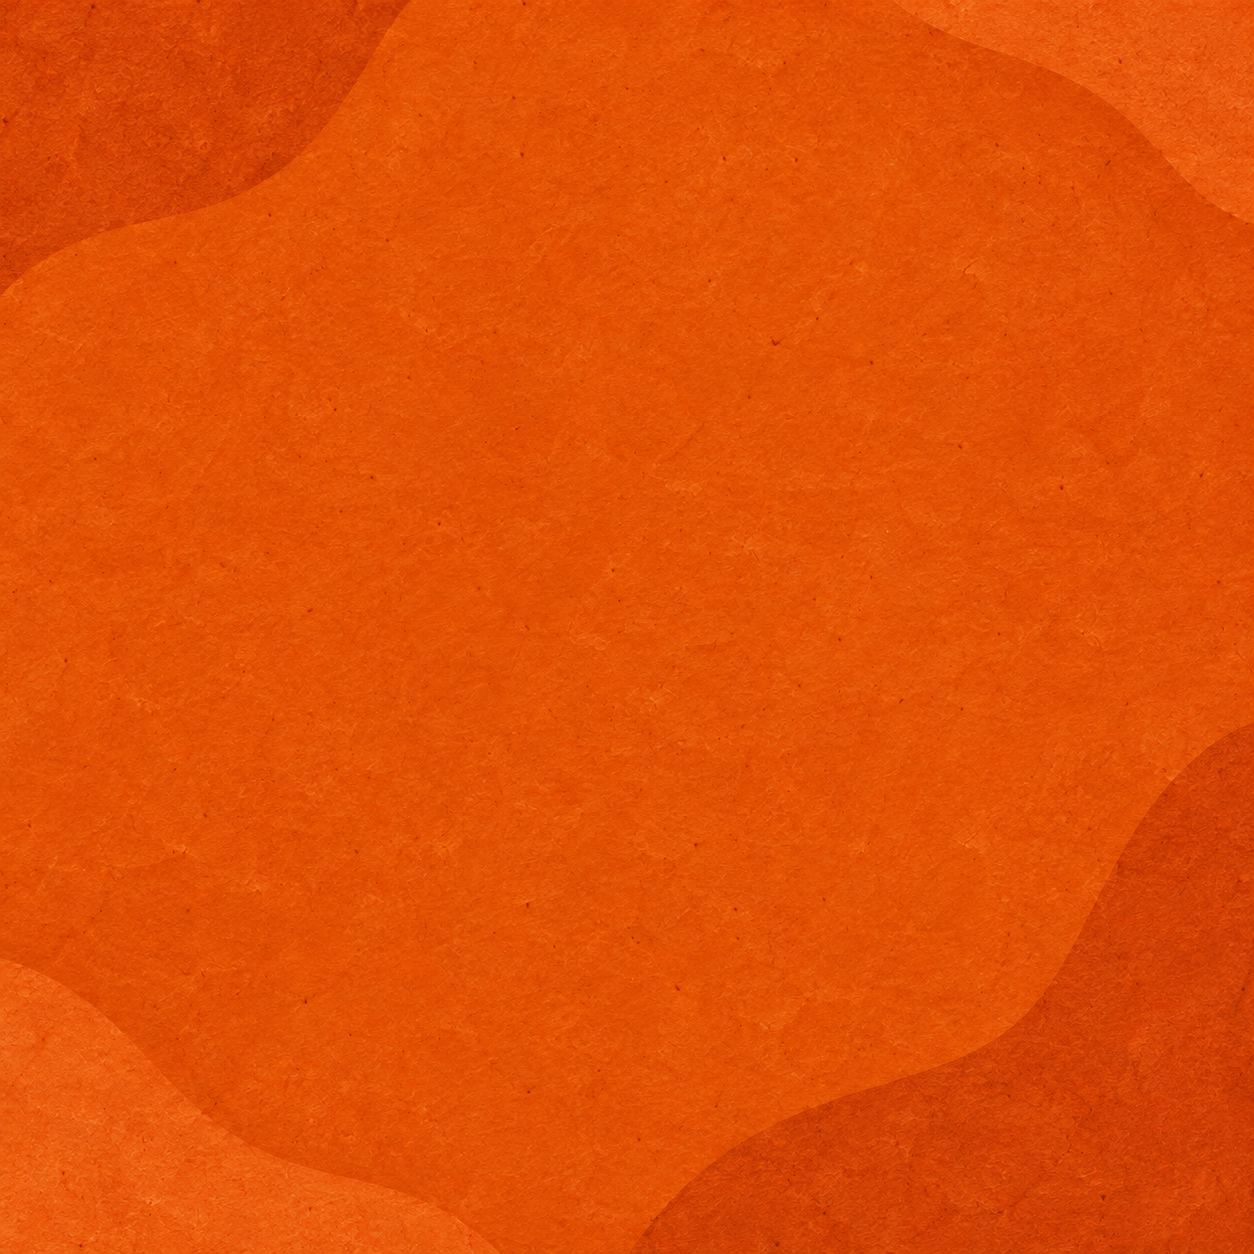
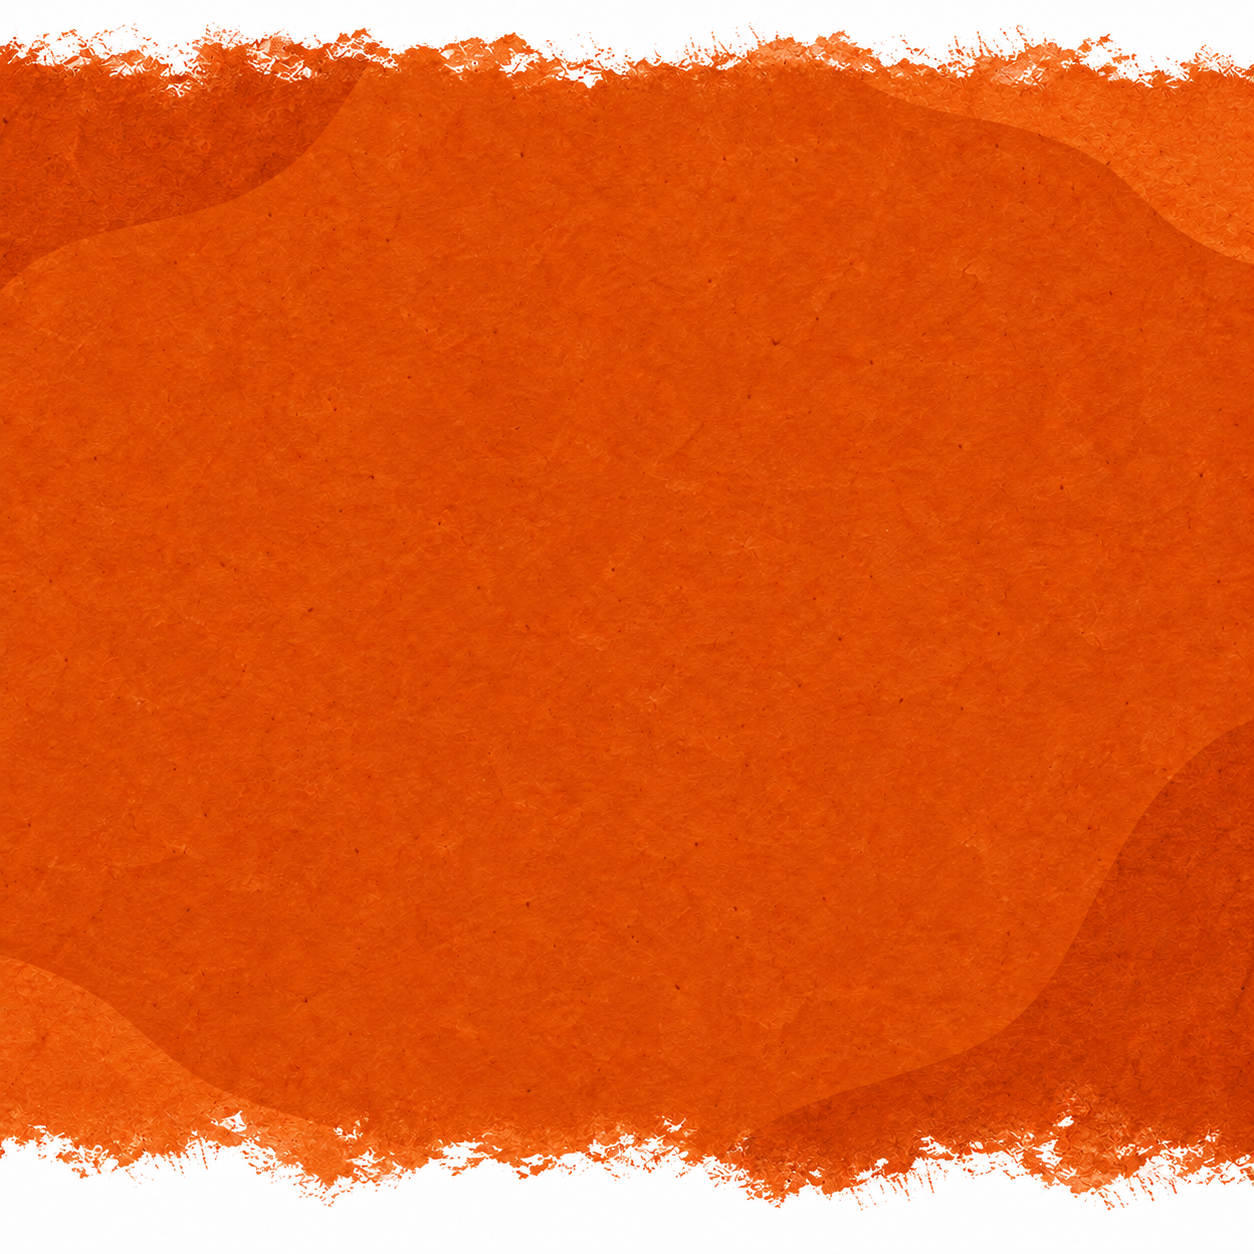
feat(ui): blend painted paper edges into page (DEV-57; FEAT-07)

Changed region(s): [[0.0, 0.8708, 1.0, 1.0], [0.0, 0.0, 1.0, 0.2177]]

diff --git a/scripts/e2e/source-detail-design.spec.ts b/scripts/e2e/source-detail-design.spec.ts
@@ -84,7 +84,7 @@ for (const width of [360, 390, 430]) {
     await expect(detail.getByTestId("source-photo-panel")).toHaveCount(0);
     await expect(detail.getByTestId("source-size-panel").getByTestId("illustration-backdrop")).toHaveCSS(
       "background-color",
-      "rgb(201, 79, 12)",
+      "rgb(255, 255, 255)",
     );
     const sizePanel = detail.getByTestId("source-size-panel");
     await expect(sizePanel).toHaveCSS("padding-top", "64px");
@@ -92,8 +92,7 @@ for (const width of [360, 390, 430]) {
     await expect(sizePanel.getByText("18cm", { exact: true })).toHaveCSS("font-weight", "700");
     await expect(sizePanel.getByText(/비교용 가정/)).toBeVisible();
     for (const edge of ["top", "bottom"]) {
-      await expect(sizePanel.getByTestId(`illustration-fade-${edge}`)).toHaveCSS("height", "48px");
-      await expect(sizePanel.getByTestId(`illustration-fade-${edge}`)).toHaveCSS("background-image", /linear-gradient/);
+      await expect(sizePanel.getByTestId(`illustration-fade-${edge}`)).toHaveCount(0);
     }
     expect((await sizePanel.getByText("18cm", { exact: true }).boundingBox())!.height).toBeCloseTo(48, 0);
     const handBox = await sizePanel.getByRole("img", { name: "설명용 감귤 크기 일러스트" }).boundingBox();
@@ -209,7 +208,7 @@ test("AC-07-2: generated meter accompanies only real Brix readings", async ({
     await page.goto(`${consumerUrl}/products/p-house`);
     const card = page.getByTestId("brix-reading");
     await expect(card.getByTestId("illustration-backdrop")).toHaveCSS(
-      "background-color", "rgb(201, 79, 12)",
+      "background-color", "rgb(255, 255, 255)",
     );
     expect((await card.getByTestId("illustration-backdrop").boundingBox())!.width).toBeCloseTo(width, 0);
     await expect(card).toHaveCSS("padding-top", "64px");

diff --git a/packages/ui/src/IllustrationBackdrop.tsx b/packages/ui/src/IllustrationBackdrop.tsx
@@ -1,8 +1,6 @@
 import { Image, StyleSheet, View } from "react-native";
-import { LinearGradient } from "expo-linear-gradient";
-import { tokens } from "./tokens";
 
-/** Generated paper grain over the same orange used by the primary button. */
+/** Generated paper edges blend directly into the white page. */
 export function IllustrationBackdrop() {
   return (
     <View
@@ -10,23 +8,13 @@ export function IllustrationBackdrop() {
       pointerEvents="none"
       accessible={false}
       aria-hidden
-      style={[StyleSheet.absoluteFill, { backgroundColor: tokens.color.accent }]}
+      style={[StyleSheet.absoluteFill, { backgroundColor: "#FFFFFF" }]}
     >
       <Image
         source={require("../assets/source/decor/orange-paper.png")}
         accessible={false}
-        resizeMode="cover"
-        style={{ width: "100%", height: "100%", opacity: 0.35 }}
-      />
-      <LinearGradient
-        testID="illustration-fade-top"
-        colors={["#FFFFFF", "rgba(255,255,255,0)"]}
-        style={{ position: "absolute", top: 0, left: 0, right: 0, height: 48 }}
-      />
-      <LinearGradient
-        testID="illustration-fade-bottom"
-        colors={["rgba(255,255,255,0)", "#FFFFFF"]}
-        style={{ position: "absolute", bottom: 0, left: 0, right: 0, height: 48 }}
+        resizeMode="stretch"
+        style={{ width: "100%", height: "100%" }}
       />
     </View>
   );

diff --git a/docs/wiki/Source-Analysis.md b/docs/wiki/Source-Analysis.md
@@ -88,6 +88,6 @@ The initial integration connected data review and publication but missed the fin
 Only supplied text, photos, and explicitly selected illustrations are rendered. Empty groups, studio placeholders, example product facts, and assumed production stages are omitted. The standalone row of three process icons is omitted; section-heading icons remain. Photo aspect ratios remain intact. Web photos use the original paper frame (9% slices, 14px border), while native photos keep the existing renderer. Hand-comparison artwork and labels sit on an edge-to-edge dark-orange paper texture generated with ImageGen, matching the primary button accent (#C94F0C). White text and 24px horizontal/64px vertical padding keep the comparison readable. The farm-news heading adds an eighth 36px icon matching the existing paper illustrations; smaller headings remain text-only. Illustration labels explicitly identify the 18cm hand as a comparison assumption, not a measured product size. This change does not integrate experimental Gemini OCR or alter extraction accuracy gates.
 
 
-A generated, transparent Brix-meter illustration appears centered above the measured-sweetness reading, in a responsive square up to 280px. It preserves the user-selected meter shape and matches the filled paper texture and colors of the existing tangerine and section icons. It contains no numeric reading or certification claim. The illustration and reading share the same full-width orange paper background with 64px vertical padding and white text. The generated texture is layered at 35% opacity over the primary button accent, without adding a card, border or shadow. API values and dates are separate text below; zero remains a measured value and a missing date is explicit. Without a measurement, the illustration is hidden and the existing estimated-value guidance remains without the colored background. The original alpha and final built-in ImageGen prompt are preserved in the repository.
+A generated, transparent Brix-meter illustration appears centered above the measured-sweetness reading, in a responsive square up to 280px. It preserves the user-selected meter shape and matches the filled paper texture and colors of the existing tangerine and section icons. It contains no numeric reading or certification claim. The illustration and reading share the same full-width orange paper background with 64px vertical padding and white text. The generated texture is displayed at full opacity on white, stretched to preserve both painted edges, without a gradient overlay, card, border or shadow. API values and dates are separate text below; zero remains a measured value and a missing date is explicit. Without a measurement, the illustration is hidden and the existing estimated-value guidance remains without the colored background. The original alpha and final built-in ImageGen prompt are preserved in the repository.
 
-The hand and measured-Brix sections blend into the white page with 48px top and bottom fades. All three hand illustrations have white interiors and transparent exteriors. The footer illustration caption is removed; the adjacent comparison-assumption label remains. The 18cm reference and measured Brix number use bold 40px/48px text; labels and dates use 17px/26px white text. Measured readings have separate title, value and date lines. Unmeasured guidance is unchanged.
+The hand and measured-Brix sections blend into the white page through irregular white paper and dry-brush edges painted into the background image itself. All three hand illustrations have white interiors and transparent exteriors. The footer illustration caption is removed; the adjacent comparison-assumption label remains. The 18cm reference and measured Brix number use bold 40px/48px text; labels and dates use 17px/26px white text. Measured readings have separate title, value and date lines. Unmeasured guidance is unchanged.

diff --git a/packages/ui/assets/source/decor/orange-paper-prompt.md b/packages/ui/assets/source/decor/orange-paper-prompt.md
@@ -1,7 +1,9 @@
 # 손·당도계 영역 주황 종이 배경
 
-2026-10-17 내장 `image_gen` 사용. 기존 `headings/taste.png`, `headings/storage.png`를 직접 참조해 생성했다. 원본을 재가공 없이 저장한다. 버튼과 같은 `tokens.color.accent` (#C94F0C) 위에35% 불투명도로 겹쳐 색조를 맞추며 질감·종이 곡선을 유지한다. 손·당도계 영역만 전체 폭으로 채우는 장식이고 문자·측정값은 포함하지 않는다.
+2026-10-17 built-in ImageGen 편집. 기존 주황 종이 배경을 직접 참조하여 위아래에 불규칙한 흰 종이·마른 붓 경계를 넣었다. 생성 원본을 후처리 없이 orange-paper.png로 복사했다. 흰 바탕/불투명도100%/stretch로 표시해 코드 그라디언트와 경계 잘림 없이 페이지에 연결한다.
+
+생성 ID: exec-cd1394aa-0871-43f1-8834-881467d2ce71.png. 참조 원본은 이전 git 버전의 orange-paper.png.
 
 ## 최종 프롬프트
 
-Use case: stylized-concept. Create a BACKGROUND ONLY for a Korean farm-product editorial app. The supplied tangerine and refrigerator illustrations are STYLE references only: match their matte gouache pigment and handmade cut-paper fibers, do NOT reproduce their objects. Full-bleed square, no transparent edges. Dominant color must be the app button's rich burnt tangerine orange HEX #C94F0C, NOT bright yellow-orange, peach, cream or brown. An elegant printed orange handmade-paper field, fine tactile paper grain and restrained uneven gouache pigment. Broad very subtle overlapping organic paper-cut curves sweep along the outer corners in close shades of dark orange and terracotta; center 70% remains quiet and evenly dark orange for placing a separate hand/fruit illustration or a cream device and light readable text. Tonal differences should be small but visibly handmade, no flat uniform digital fill. Keep the entire field orange including corners. No central circle, inset panel, card, border or frame. No white patch. No fruit, leaves, hands, devices, objects, lettering, numbers or logos. No glossy 3D, dramatic lighting, vignette, drop shadow or photo. Simple sophisticated warm paper texture matching the reference icon family. Opaque edge-to-edge background.
+Use case: precise-object-edit. Edit this orange paper background for an editorial mobile app. Preserve the handmade gouache paper grain and subtle overlapping organic orange paper shapes. Rich dark burnt tangerine center close to #C94F0C, readable under white text. Change ONLY the upper and lower edges: make the orange pigment naturally end in irregular delicate dry-brush / deckled-paper fiber edges into PURE WHITE #FFFFFF page. The topmost and bottommost 2% rows must be perfectly solid pure white edge to edge. Transition confined to the top 9% and bottom 9%; the central 82% remains uninterrupted dark orange all the way to left and right edges. Art-directed subtle asymmetrical torn fiber / brushed pigment boundary, NOT a smooth digital gradient, NOT blur or a misty glow. No white sides, no frame, no border, no objects, text or shadows. Flat front-facing background artwork, opaque square canvas. Edges are part of the illustration itself. Keep enough consistent dark orange for large white typography.

diff --git a/packages/ui/spec.md b/packages/ui/spec.md
@@ -77,6 +77,6 @@ Current contract: docs/spec/source-integration.md, AC-SRC-1~10. SourceWorkspace 
 
 ## DEV-57 당도계 일러스트
 `brix-meter.png`는 사용자 지정 당도계 형태에 기존 귤·냉장고·선별 아이콘의 채색 종이 질감을 적용한 일러스트다. 크림·세이지·귤색을 공유한다. 최종 생성 프롬프트와 참조 경로는 자산 옆에 기록한다.
-`BrixReading`은 API 실측값이 null이 아닐 때 당도계 장식을280×280 영역 중앙에 크게 표시하고 실제 값/측정일을 아래 중앙에 배치한다. 그림·값·날짜 전체에 버튼 accent #C94F0C/상하64px의 전체 폭 배경과 ImageGen 주황 종이 질감을 적용한다. 글자는 흰색이다. 공통 IllustrationBackdrop은 생성 원본을35%로 겹쳐 버튼의 색조를 유지하며 접근성 트리/터치를 방해하지 않는다. 0을 예상값으로 대체하지 않으며 날짜 미등록은 명시한다. 실측값이 없으면 배경과 그림 없이 기존 예상값/대기 안내 행을 유지한다. 그림 자체에는 숫자나 인증 표시가 없다.
+`BrixReading`은 API 실측값이 null이 아닐 때 당도계 장식을280×280 영역 중앙에 크게 표시하고 실제 값/측정일을 아래 중앙에 배치한다. 그림·값·날짜 전체에 버튼 accent #C94F0C/상하64px의 전체 폭 배경과 ImageGen 주황 종이 질감을 적용한다. 글자는 흰색이다. 공통 IllustrationBackdrop은 흰 바탕에 생성 원본100%를 stretch로 표시해 위아래 경계를 보존하며 접근성 트리/터치를 방해하지 않는다. 0을 예상값으로 대체하지 않으며 날짜 미등록은 명시한다. 실측값이 없으면 배경과 그림 없이 기존 예상값/대기 안내 행을 유지한다. 그림 자체에는 숫자나 인증 표시가 없다.
 
-손·실측 당도 강조 영역은 위아래48px 흰색 페이드로 본문 배경과 연결한다. 손3종 내부는 흰색이고 바깥 알파는 유지한다. 하단 일러스트 설명은 제거하며 손 옆 비교용 가정은 유지한다. 18cm 및 실측 숫자는40px/48px bold, 안내·당도 제목·날짜는17px/26px 흰색이다. 실측은 제목/값/날짜로 분리하고 미측정 안내는 유지한다.
+손·실측 당도 강조 영역은 이미지 자체에 그린 위아래 흰 종이·안료 경계로 본문 배경과 연결한다. 손3종 내부는 흰색이고 바깥 알파는 유지한다. 하단 일러스트 설명은 제거하며 손 옆 비교용 가정은 유지한다. 18cm 및 실측 숫자는40px/48px bold, 안내·당도 제목·날짜는17px/26px 흰색이다. 실측은 제목/값/날짜로 분리하고 미측정 안내는 유지한다.

diff --git a/packages/ui/assets/source/README.md b/packages/ui/assets/source/README.md
@@ -10,4 +10,4 @@
 
 농가 소식은 내장 ImageGen으로 새로 만든 `headings/updates.png`를 사용한다. 기존 제목 아이콘을 직접 참조한 [최종 프롬프트](headings/updates-prompt.md)와 생성 원본 알파를 보존한다. 기존7종에 소식1종을 더해 큰 제목 아이콘은8종이며 작은 제목에는 추가하지 않는다. 당도계는 사용자 확정 [그림과 생성 기록](brix-meter-prompt.md)을 사용한다.
 
-손3종은 [흰색 채움 편집 프롬프트](white-hand-prompts.md)에 따라 built-in ImageGen으로 편집했다. 손 내부는 흰색, 바깥은 투명이며 기존 원본은 docs/design/sales-templates/assets/size-guide에 보존한다. 손·당도 영역의48px 위아래 페이드는 공통 컴포넌트가 렌더링한다.
+손3종은 [흰색 채움 편집 프롬프트](white-hand-prompts.md)에 따라 built-in ImageGen으로 편집했다. 손 내부는 흰색, 바깥은 투명이며 기존 원본은 docs/design/sales-templates/assets/size-guide에 보존한다. 손·당도 영역은 코드 그라디언트 없이 생성 이미지 자체의 흰 종이 경계로 연결한다.
